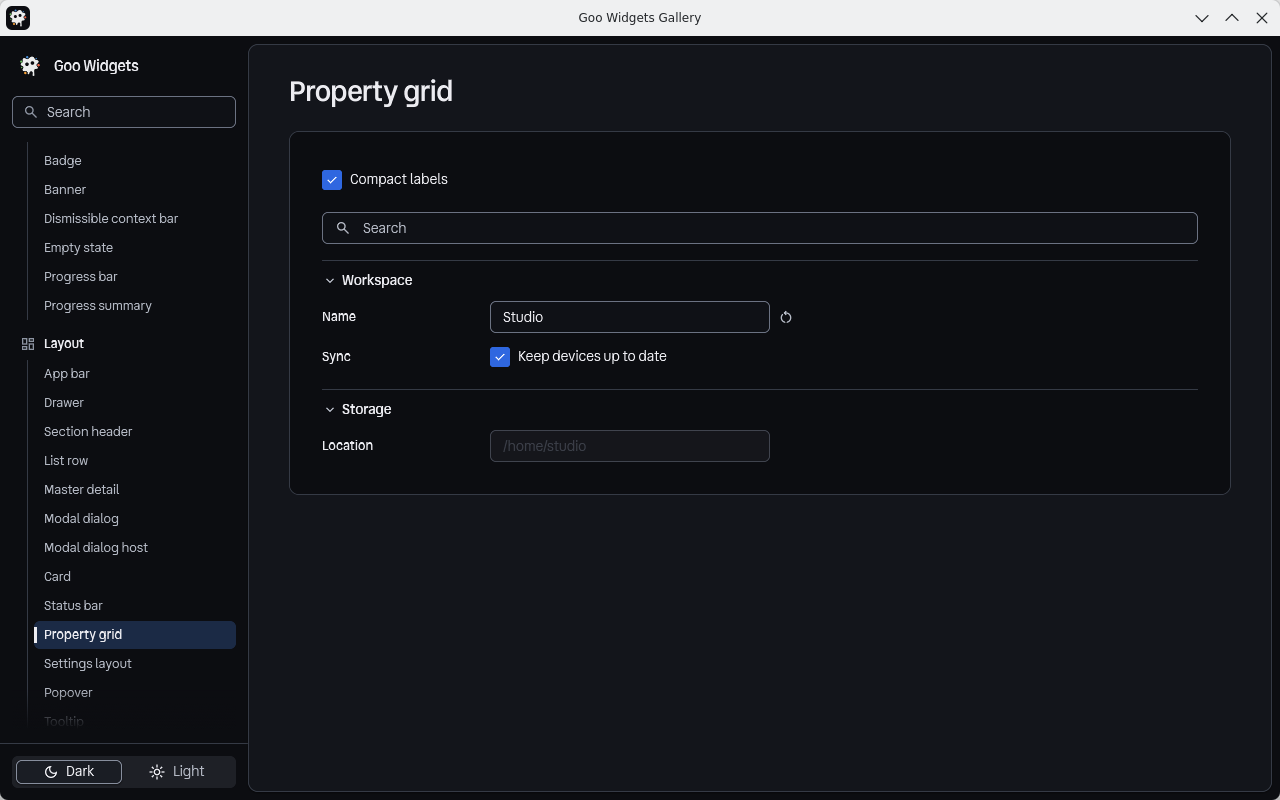
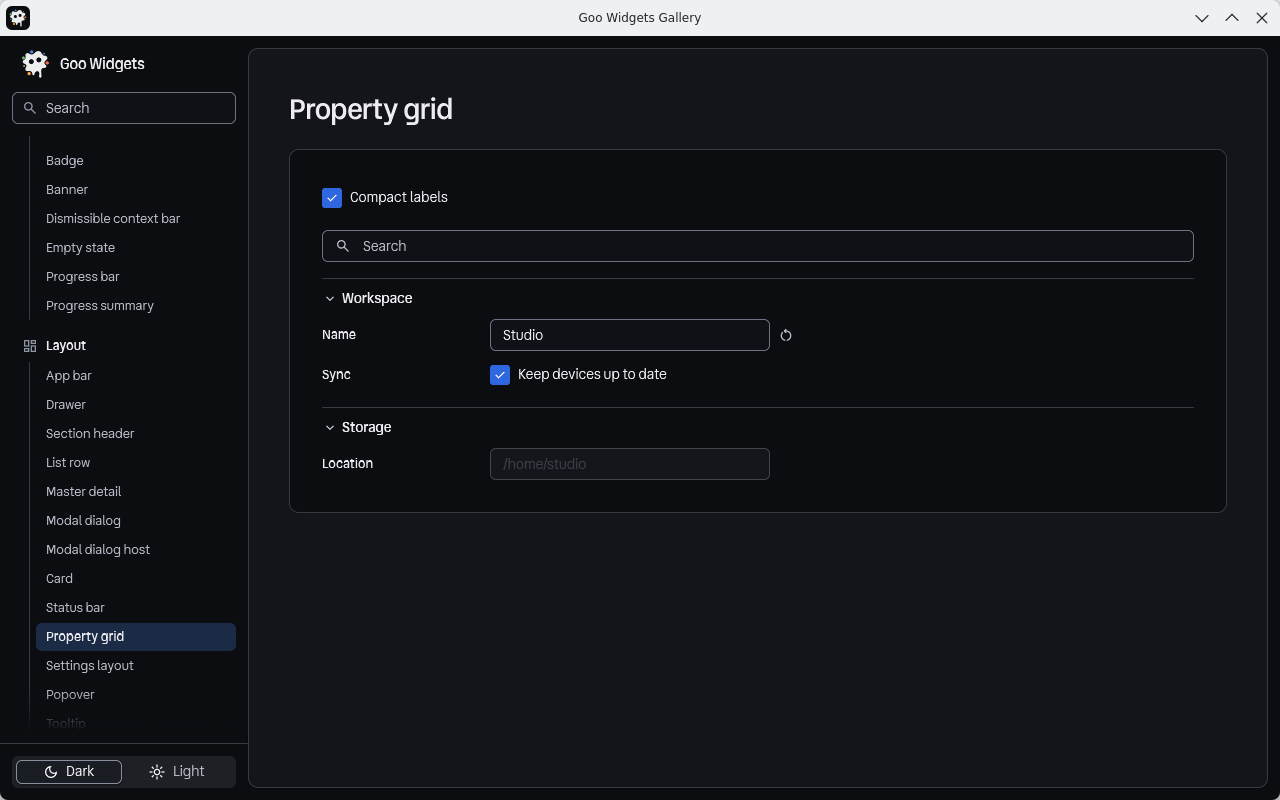
Use the bare Goo mark and even gallery shell spacing

diff --git a/CHANGELOG.md b/CHANGELOG.md
@@ -18,7 +18,7 @@
 
 - Upgrade Goo to 0.28.6 for scrolled rounded images, vertical placement at unequal display scales, clamped logical scroll offsets, and deferred virtual row realization before rendering.
 - Raise `Theme.Ink` and `Theme.Bone` `BorderColor` to about 1.6:1 against `PanelColor` so dividers and panel edges stay visible. Ink is `#353a45`, Bone is `#cbcbc6`.
-- Show the Goo mark in the gallery sidebar and window icon. Gallery pages use theme tokens, so text and surfaces stay readable in Light.
+- Show the Goo mark in the gallery sidebar and window icon. Gallery pages use theme tokens, so text and surfaces stay readable in Light. The gallery shell uses even 12 px insets and no selected-row marker.
 
 ## 0.19.5 - 2026-11-07
 
